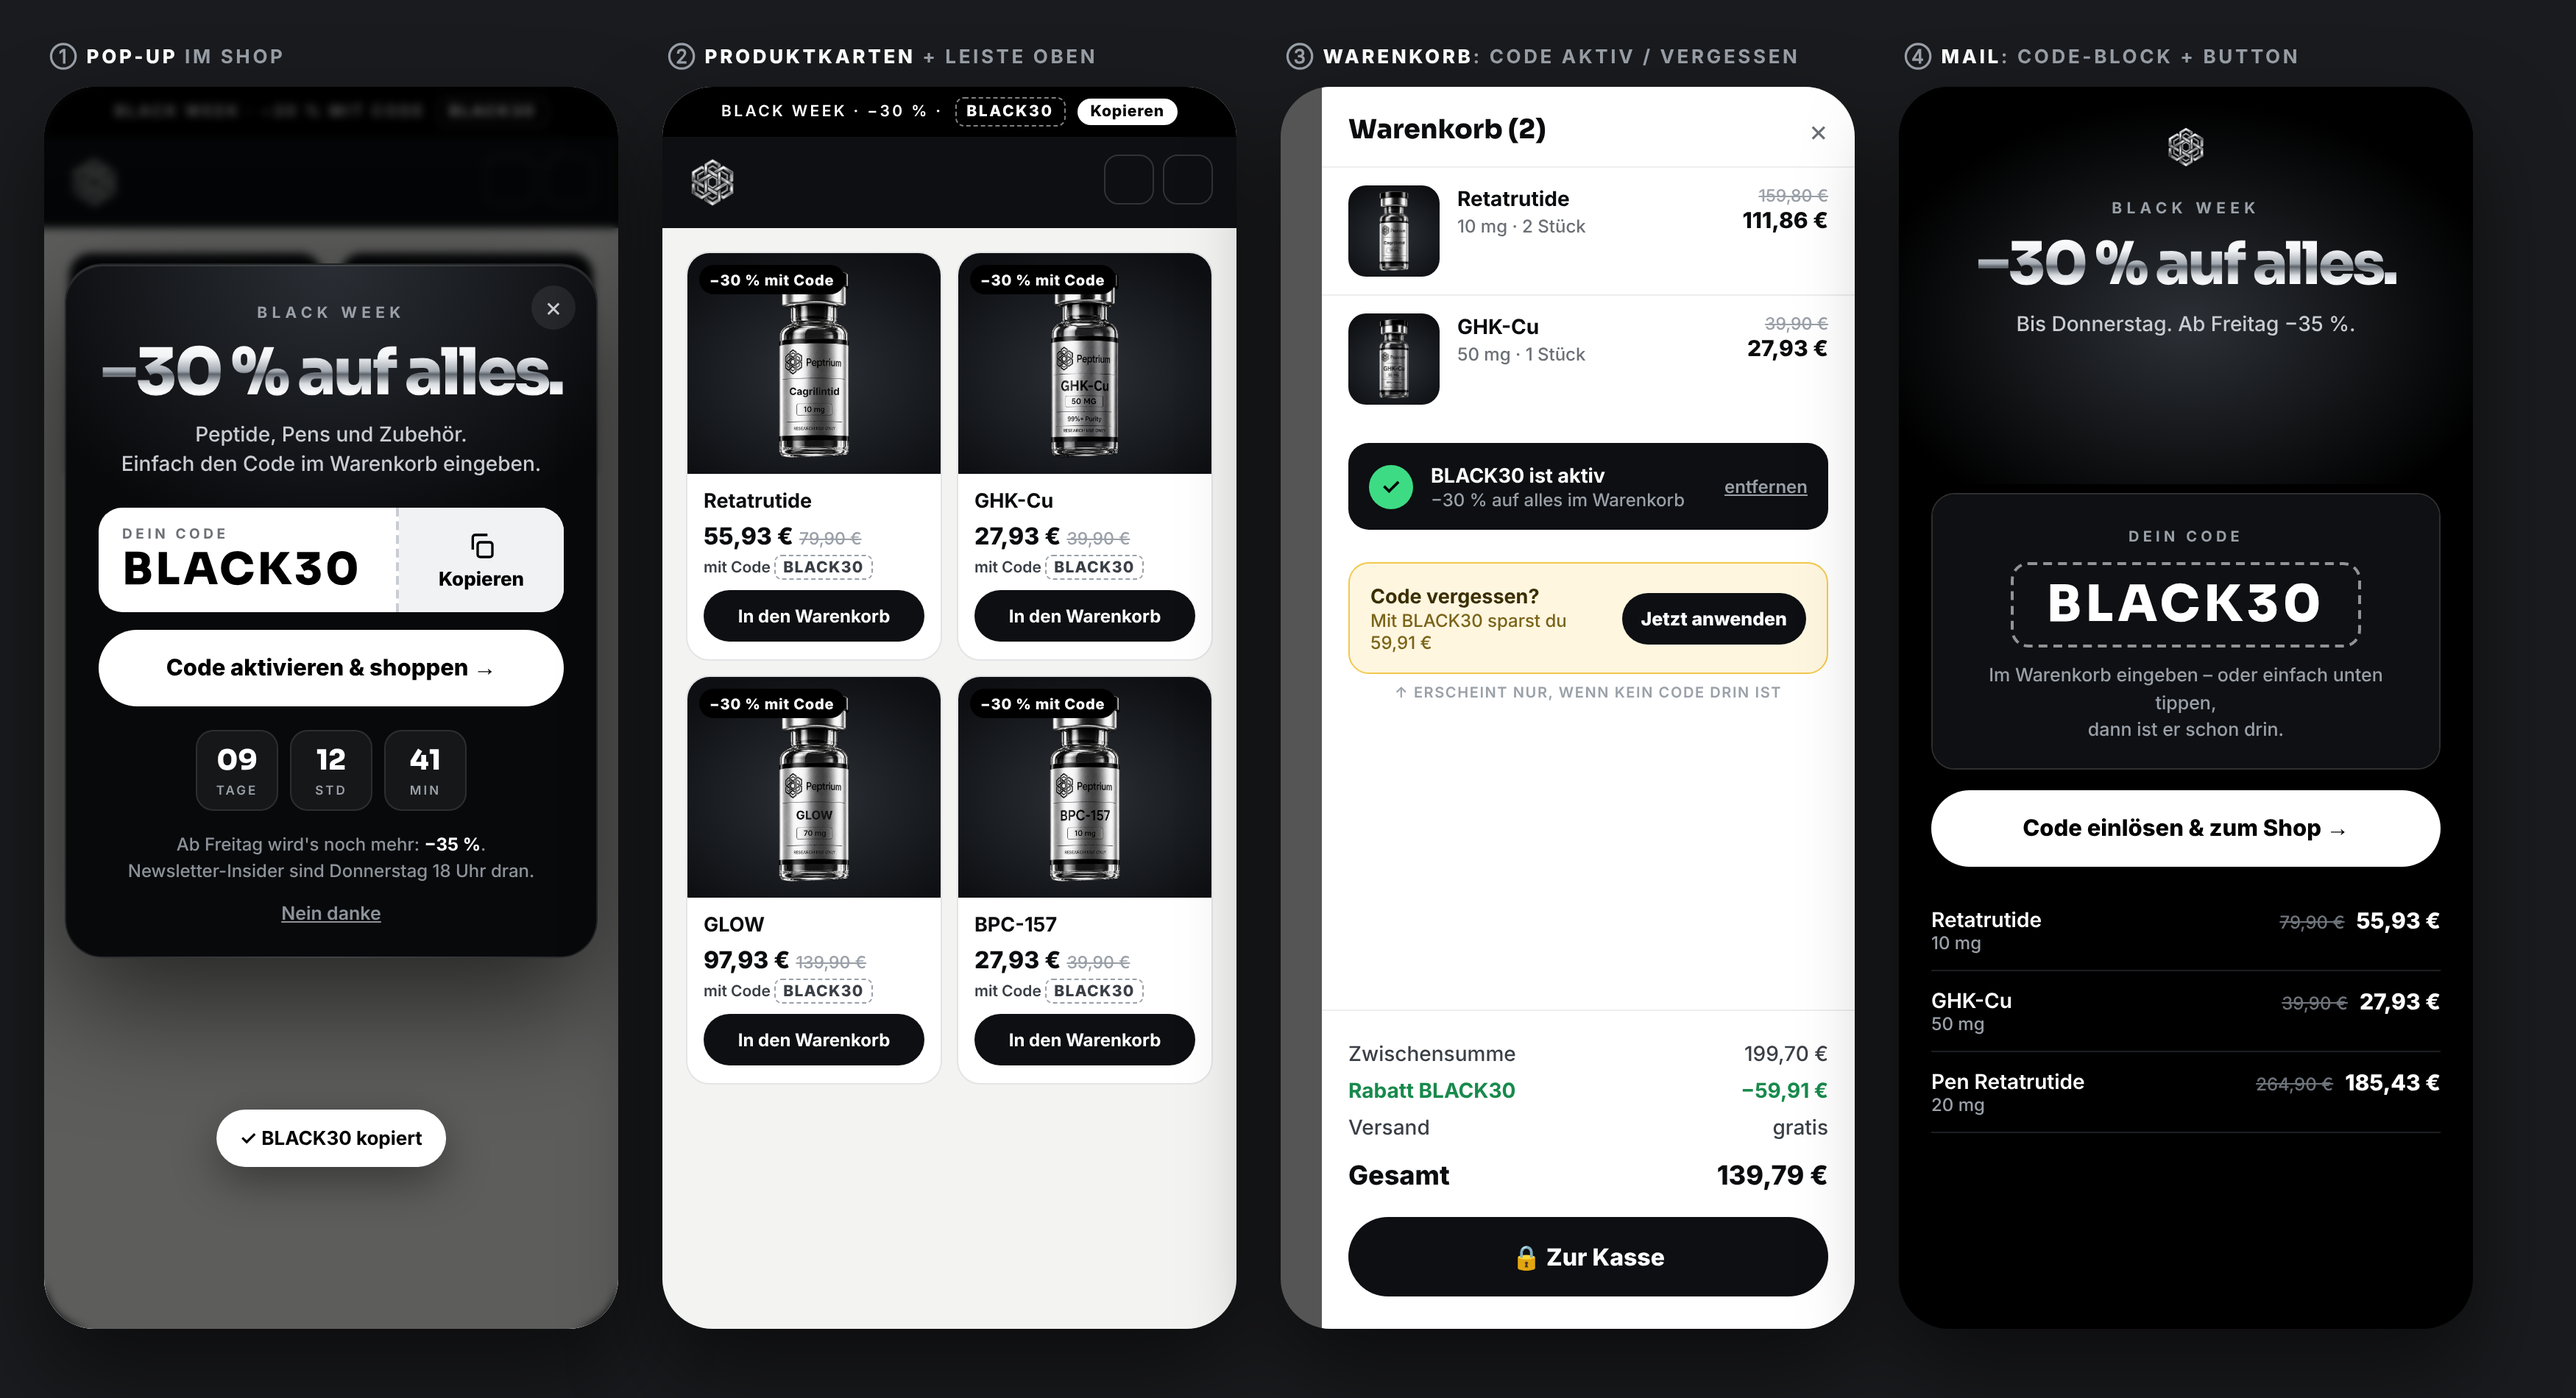
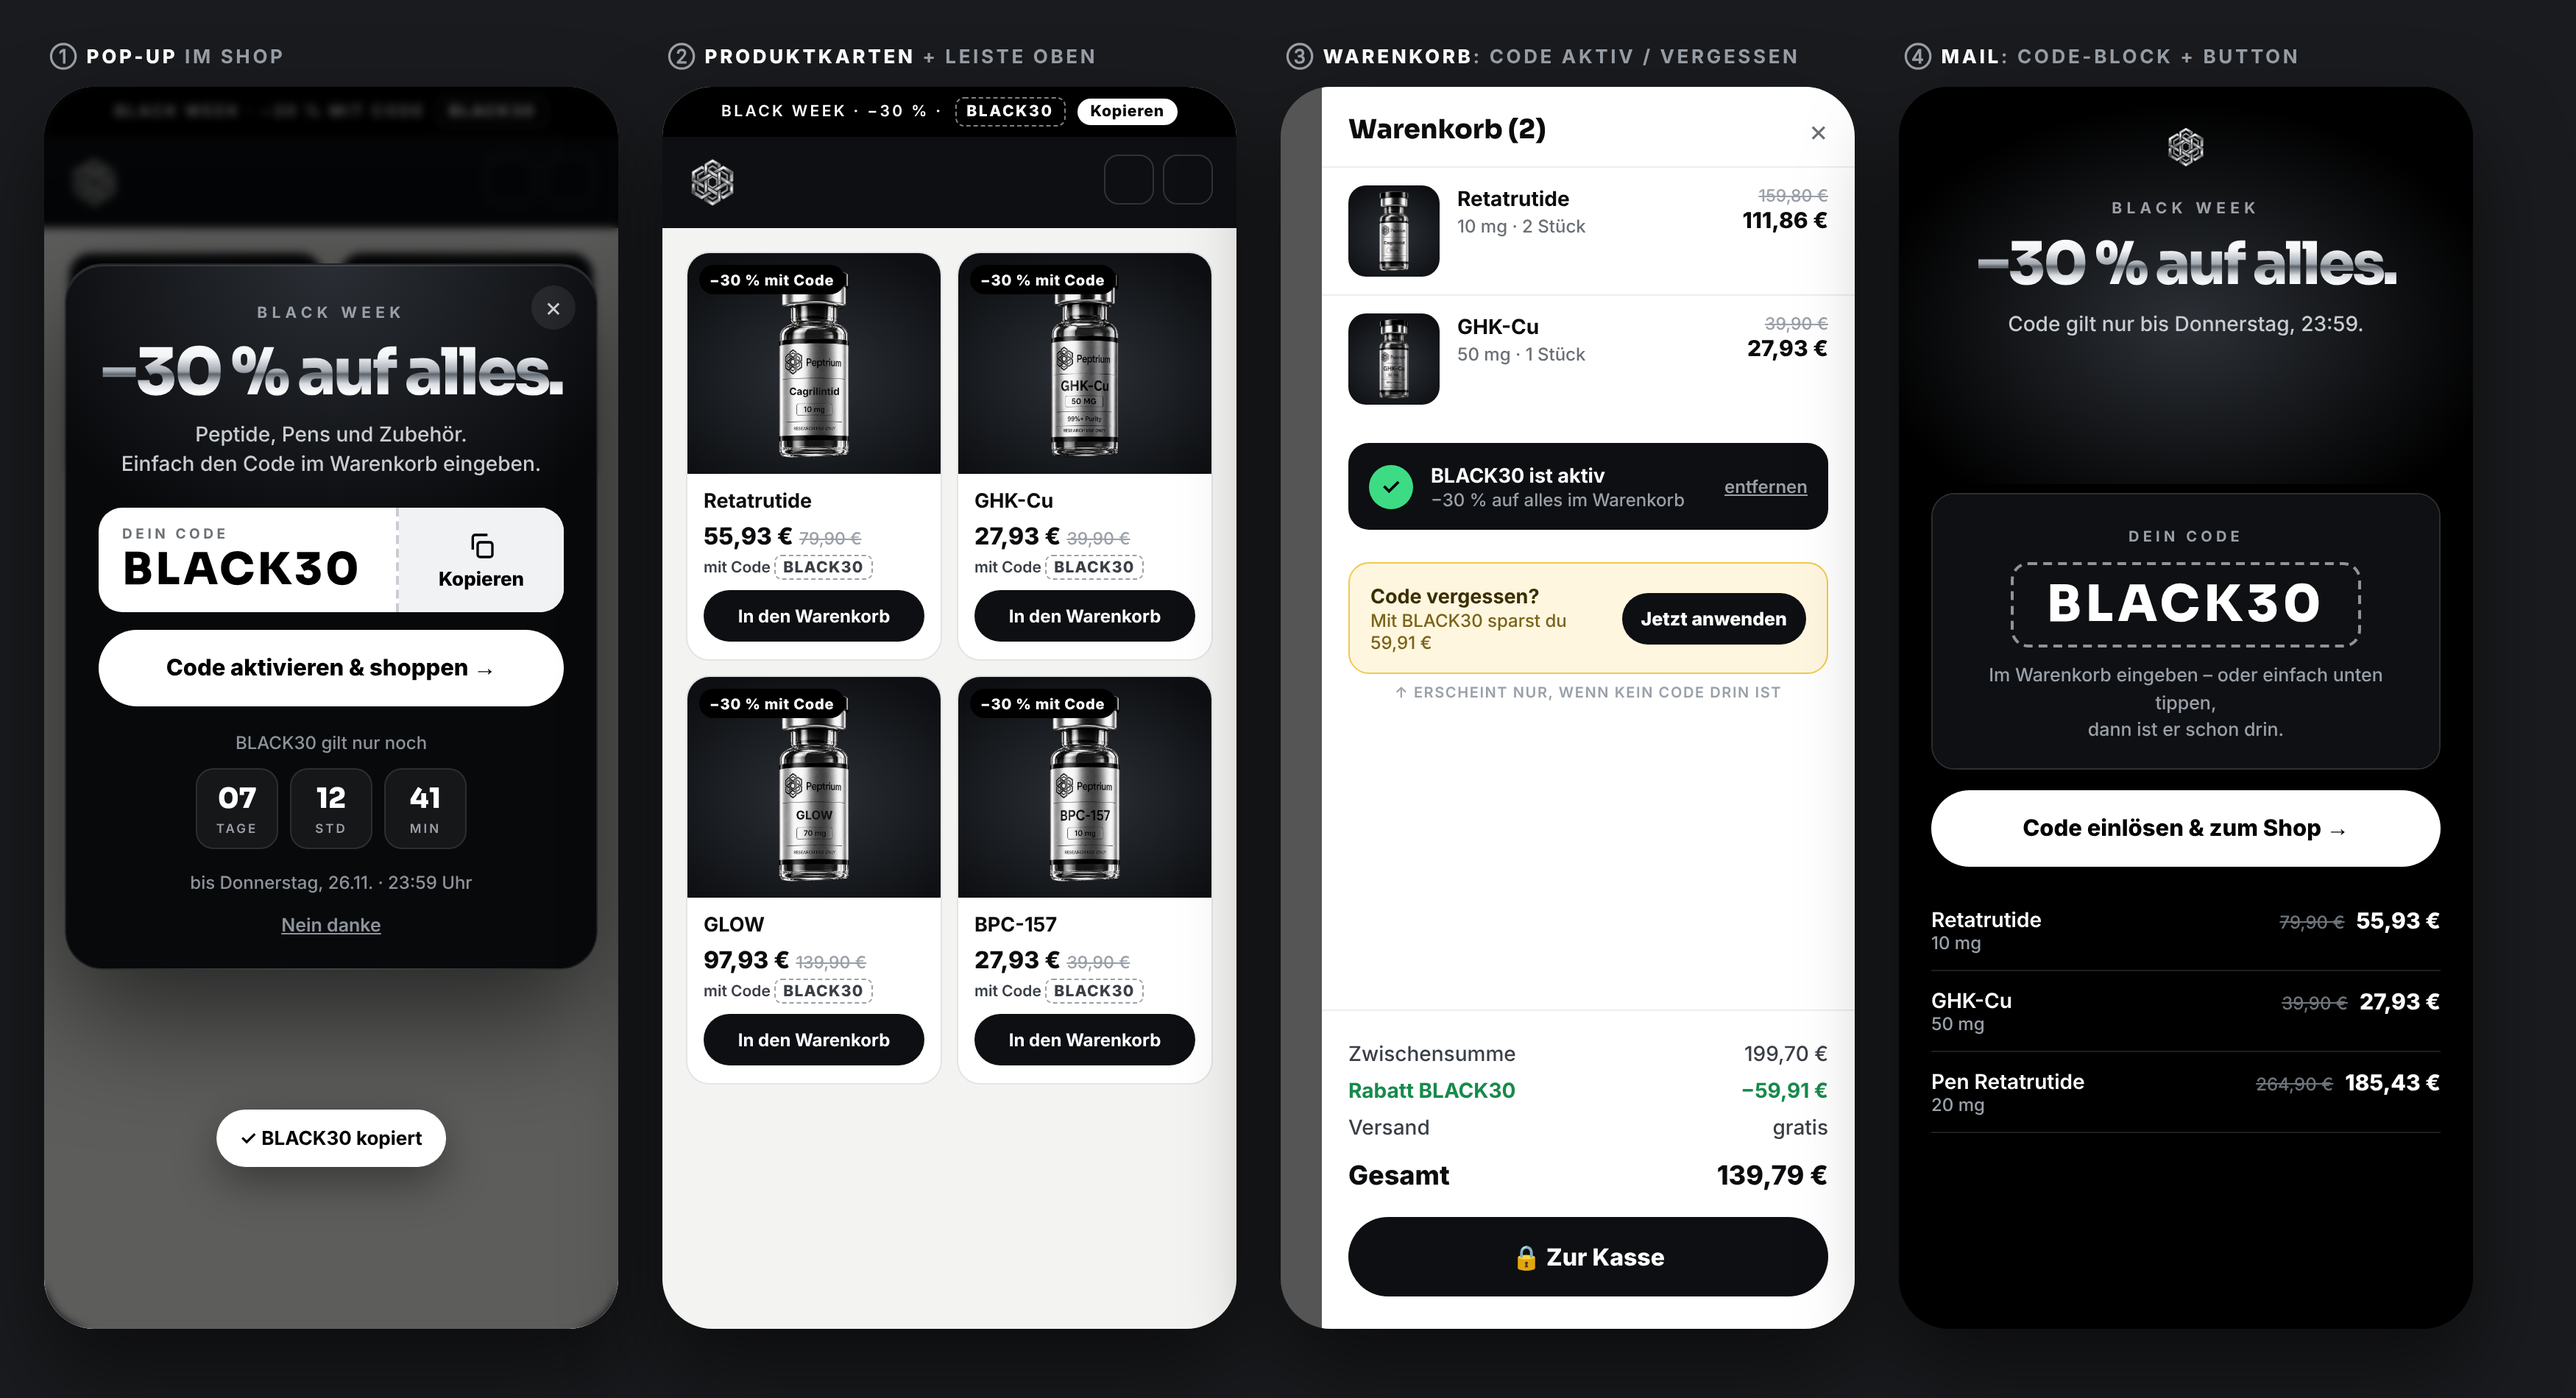
Black Week Code-Entwurf ohne 35-%-Hinweis
Claude-Session: https://claude.ai/code/session_011YY7DBkbr5BcFGKyLoSbVN

Changed region(s): [[0.0311, 0.5279, 0.218, 0.7142], [0.7786, 0.2174, 0.9031, 0.2484]]

diff --git a/drafts/blackweek-2026-11-16/code/entwurf.html b/drafts/blackweek-2026-11-16/code/entwurf.html
@@ -75,8 +75,7 @@ body{width:auto;overflow:visible;background:#1a1b1e;padding:30px;display:flex;ga
 <div class="sub">Peptide, Pens und Zubehör.<br>Einfach den Code im Warenkorb eingeben.</div>
 <div class="tk"><div class="l"><small>DEIN CODE</small><b>BLACK30</b></div><div class="r"><svg viewBox="0 0 24 24"><rect x="9" y="9" width="12" height="12" rx="2"/><path d="M5 15V5a2 2 0 0 1 2-2h10"/></svg>Kopieren</div></div>
 <div class="go">Code aktivieren &amp; shoppen →</div>
-<div class="cnt"><div>09<small>TAGE</small></div><div>12<small>STD</small></div><div>41<small>MIN</small></div></div>
-<div class="nt">Ab Freitag wird's noch mehr: <b>−35 %</b>.<br>Newsletter-Insider sind Donnerstag 18 Uhr dran.</div>
+<div class="nt" style="margin-top:16px">BLACK30 gilt nur noch</div><div class="cnt" style="margin-top:8px"><div>07<small>TAGE</small></div><div>12<small>STD</small></div><div>41<small>MIN</small></div></div><div class="nt">bis Donnerstag, 26.11. · 23:59 Uhr</div>
 <div class="no">Nein danke</div>
 </div>
 <div class="toast">✓ BLACK30 kopiert</div>
@@ -103,7 +102,7 @@ body{width:auto;overflow:visible;background:#1a1b1e;padding:30px;display:flex;ga
 </div></div></div>
 
 <div class="col"><div class="cap">④ <b>Mail</b>: Code-Block + Button</div><div class="ph ml">
-<div class="mh"><img class="lo" src="../hero/logo.png"><div class="ey">BLACK WEEK</div><div class="h chrome">−30 % auf alles.</div><div class="sub" style="padding:0 30px">Bis Donnerstag. Ab Freitag −35 %.</div></div>
+<div class="mh"><img class="lo" src="../hero/logo.png"><div class="ey">BLACK WEEK</div><div class="h chrome">−30 % auf alles.</div><div class="sub" style="padding:0 30px">Code gilt nur bis Donnerstag, 23:59.</div></div>
 <div class="mt"><div class="mtk"><div class="top"><small>DEIN CODE</small><br><span class="code">BLACK30</span><p>Im Warenkorb eingeben – oder einfach unten tippen,<br>dann ist er schon drin.</p></div></div>
 <a class="mbtn">Code einlösen &amp; zum Shop →</a>
 <div class="mli"><div><span>Retatrutide<small>10 mg</small></span><span><s>79,90 €</s><b>55,93 €</b></span></div><div><span>GHK-Cu<small>50 mg</small></span><span><s>39,90 €</s><b>27,93 €</b></span></div><div><span>Pen Retatrutide<small>20 mg</small></span><span><s>264,90 €</s><b>185,43 €</b></span></div></div>
